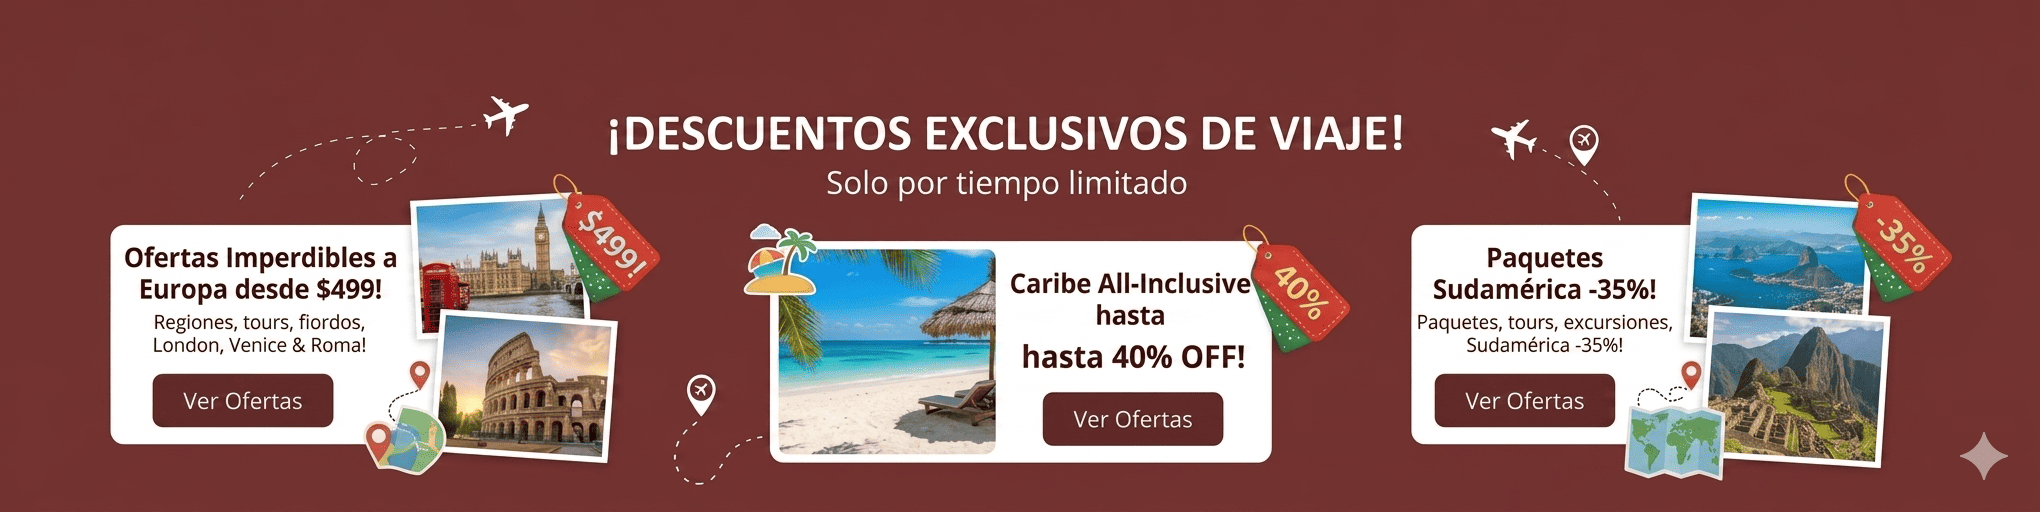
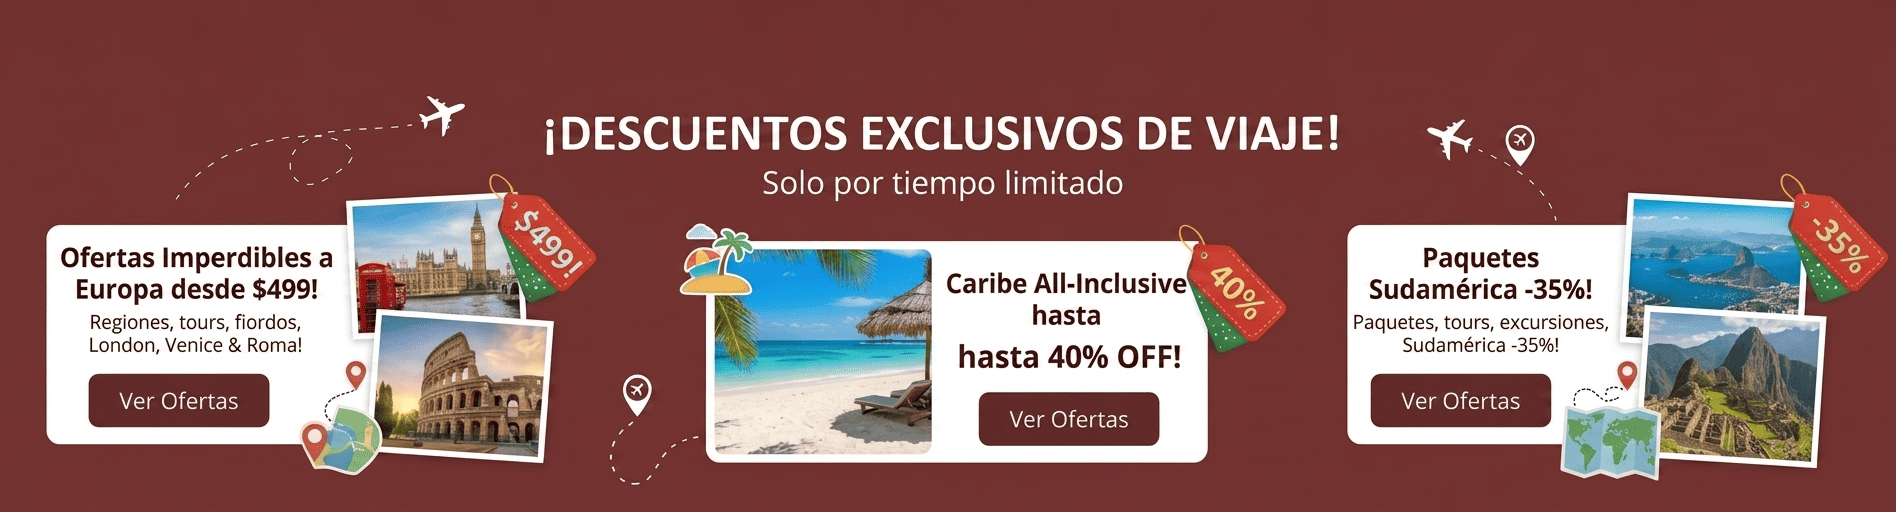
Arreglos

Changed region(s): [[0.0, 0.3438, 0.9958, 0.9375], [0.2178, 0.1875, 0.8091, 0.4062], [0.1556, 0.25, 0.2178, 0.2812]]

diff --git a/vistas/registrarse/registro.js b/vistas/registrarse/registro.js
@@ -47,7 +47,8 @@ form.addEventListener("submit", function (evento) {
 
     usuarios.push(nuevoUsuario);
 
-    localStorage.setItem("usuarioLogueado", JSON.stringify(usuarios));
+    localStorage.setItem("usuarios", JSON.stringify(usuarios));
+    localStorage.setItem("usuarioLogueado", JSON.stringify(nuevoUsuario));
 
     alert("Usuario registrado correctamente");
 